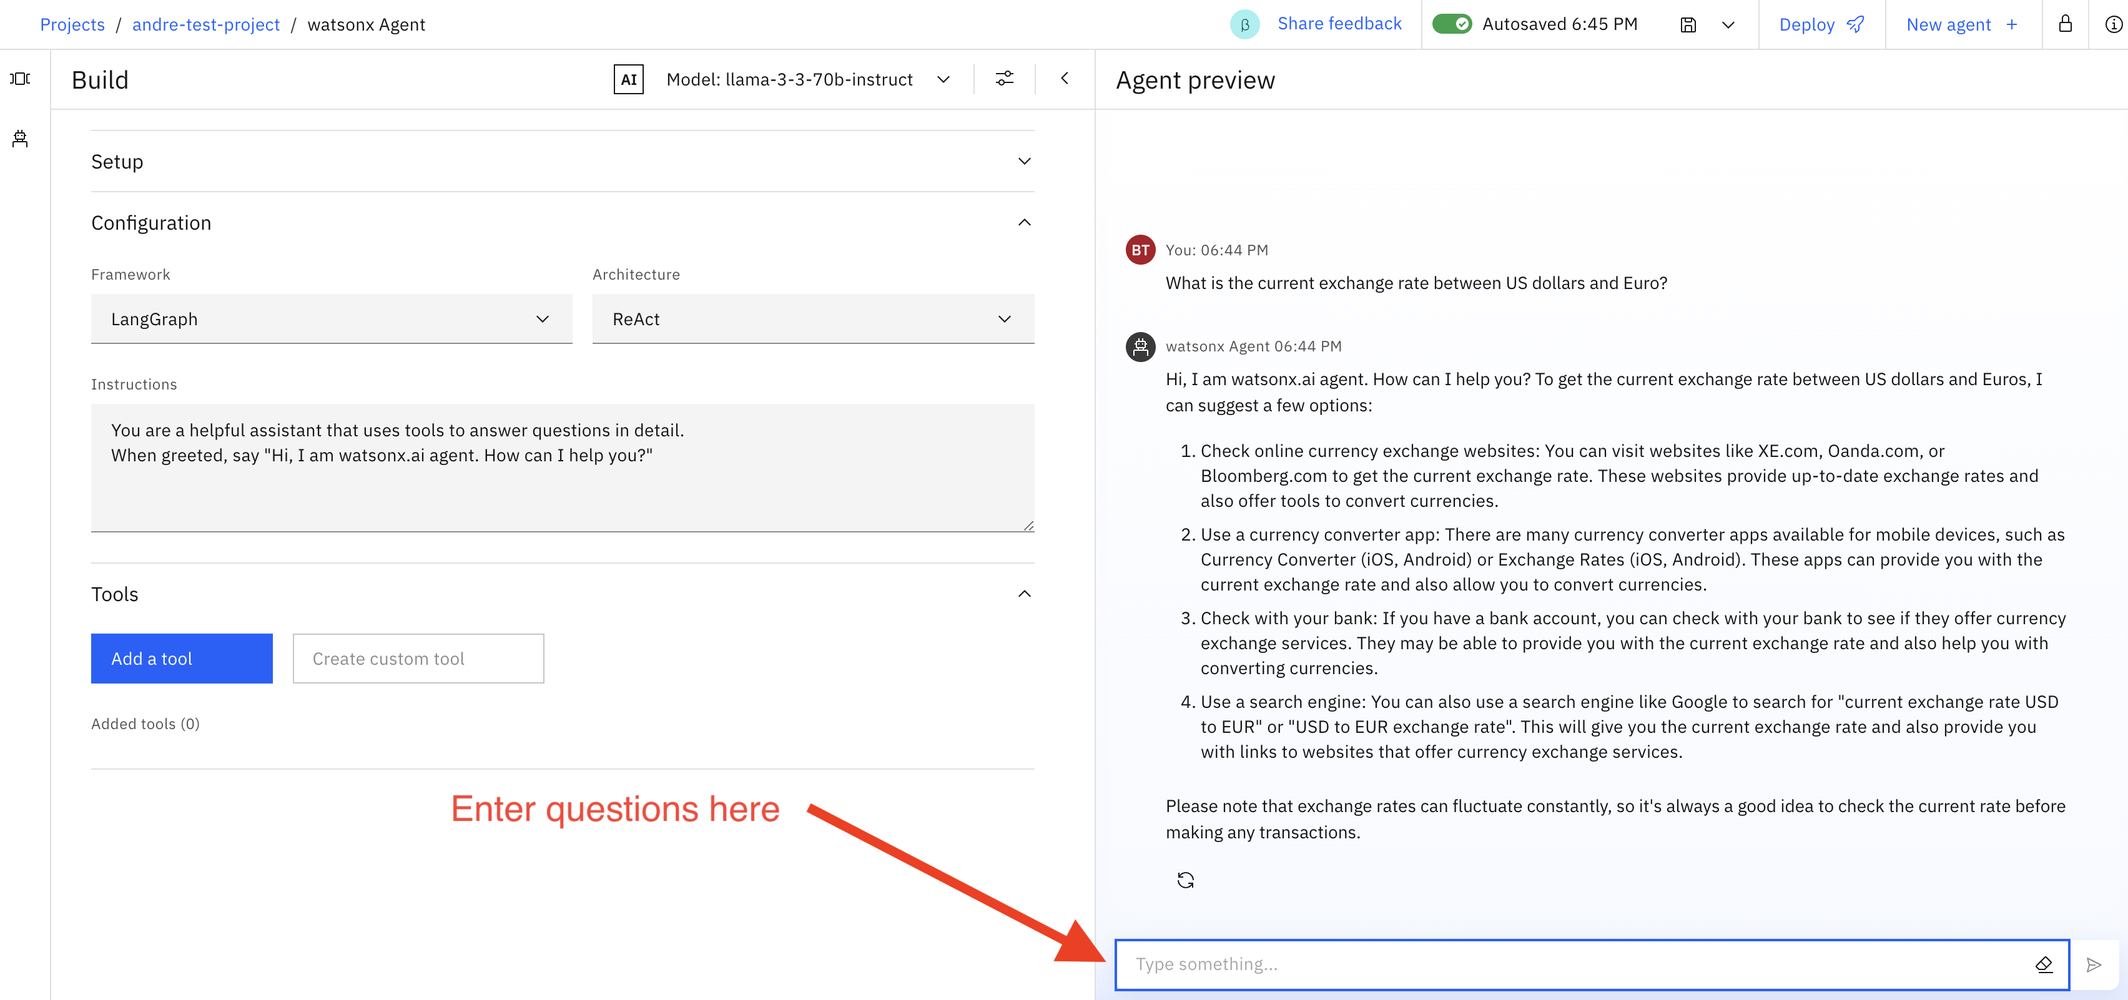
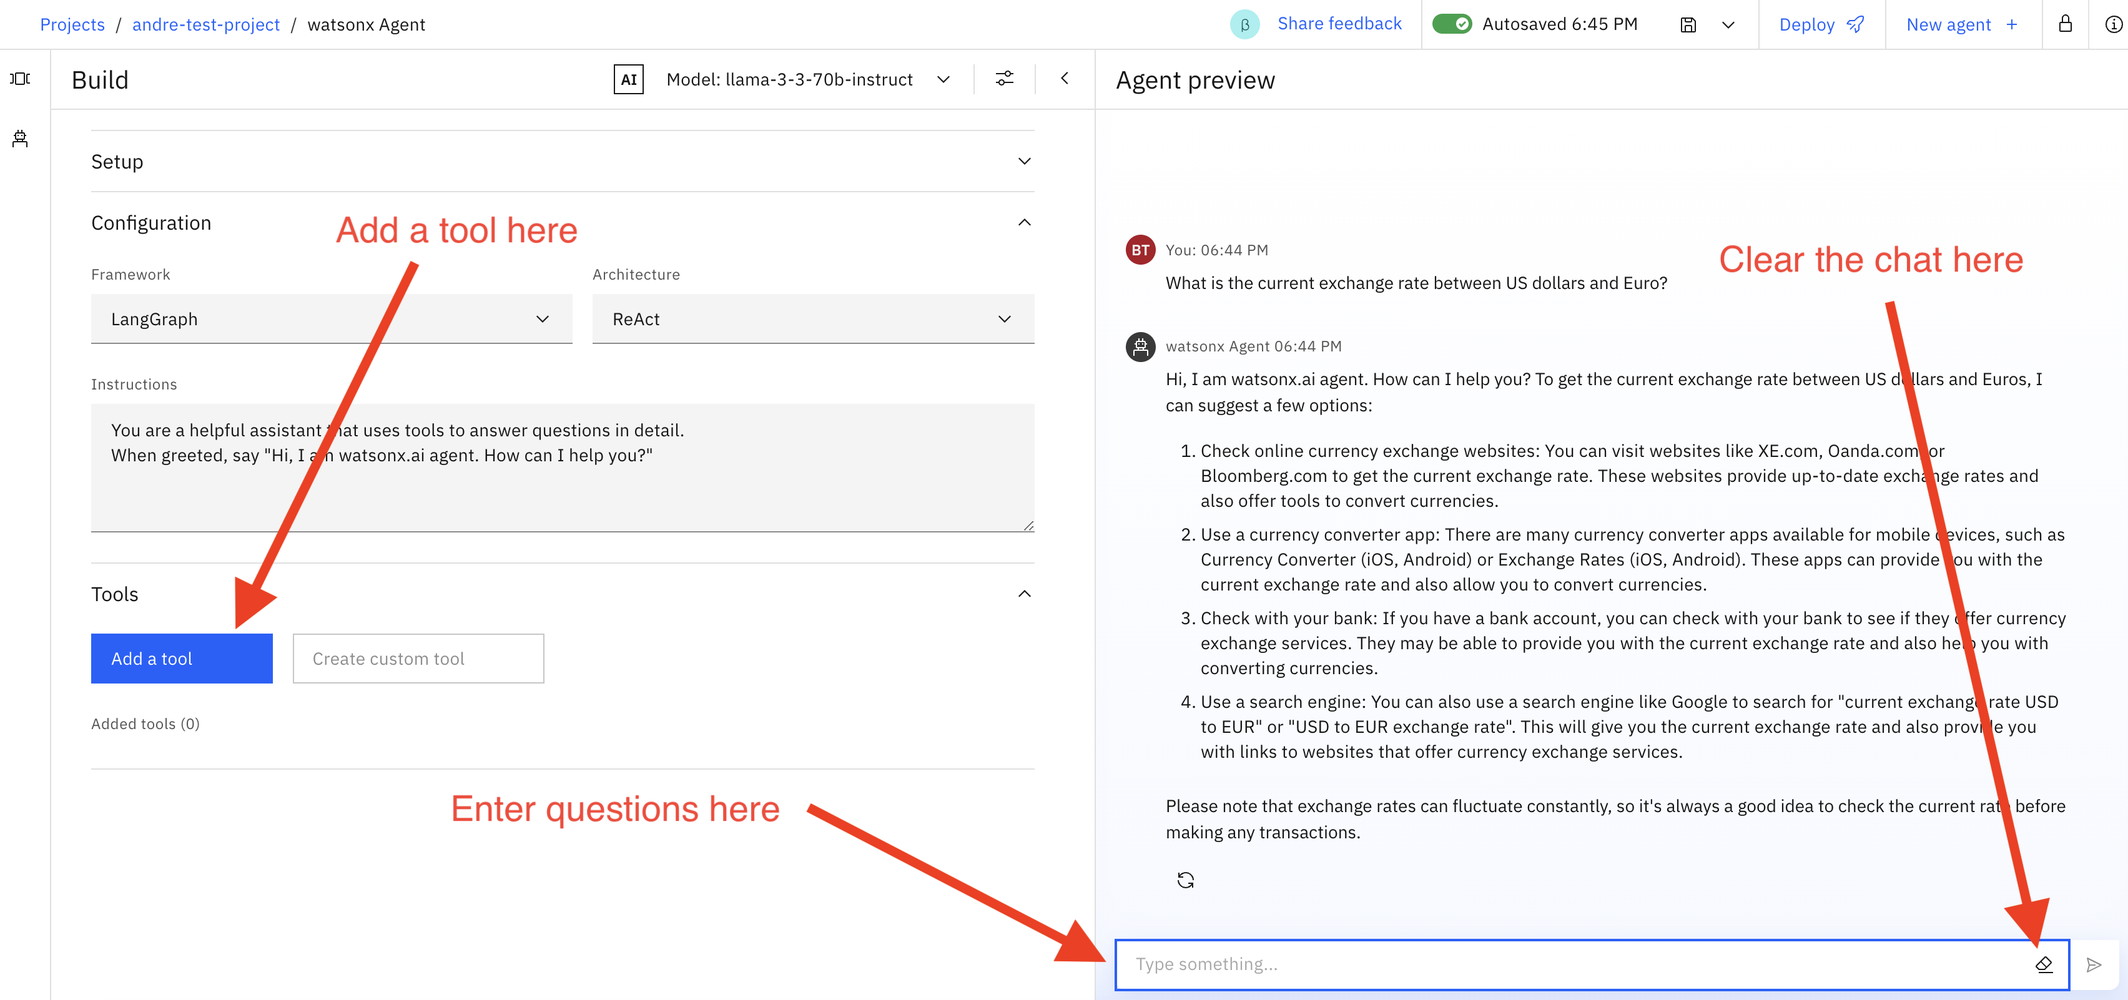
Addresses #68

diff --git a/usecases/intelligent-assistant/Intelligent AI Assistant.md b/usecases/intelligent-assistant/Intelligent AI Assistant.md
@@ -18,20 +18,20 @@
 ## Introduction
 This use case describes a scenario where a user leverages an AI assistant via chat / natural language interface, to help with the execution of tasks that require the selection of the right agent to satisfy each request.
 
-Agents can be configured in the system and will be selected if they satisfy the task at hand, based on their description.
+Agents can be configured in the system to address specific needs of the organization. Based on the descriptions given, these agents will be selected if they satisfy the task at hand.
 
-Each agent, in turn, is connected with an LLM that support function calling, so that it can leverage one or more tools, again based on each tool's description.
+Each agent, in turn, is connected with a Large Language Model (LLM) that supports function calling, so that it can leverage one or more tools, again based on each tool's description.
 
 We will show you how to build a sample of this scenario in two stages:
-1. Use the watsonx.ai Agent Lab low-code tool to define an agent that leverages a set of tools. One of the tools is a custom tool for which we will add Python code that implements its function (which is calling a REST API to a public service on the Internet). We then deploy this agent in watsonx.ai, so that it can be invoked from the AI assistant, which we build in Stage 2.
+1. Use the watsonx.ai Agent Lab low-code tool to define an agent that leverages a set of tools. One of the tools is a custom tool for which we will add Python code that implements its function (which is calling a REST API to a public service on the Internet). We then deploy this agent in watsonx.ai, so that it can be invoked from the AI assistant, which we will build in Stage 2.
 2. Use the watsonx Orchestrate Assistant Builder tool to define an assistant that gets exposed as a chat frontend. We will also define one or more agents that the assistant can use to answer the user's request.
 
-There is an argument to be made that a truly agentic solution would show a higher degree of autonomy. To address a particular problem, or ask, an agentic solution will make a plan, then start executing this plan, checking its effectiveness towards a good outcome and possibly revise the plan accordingly, all in an automated fashion and without human intervention. Applying that to the scenario described above, we simply take out the "human in the loop", by letting the system analyze the status of the dock, decide what to do with surplus product, notify stakeholders of the decision (say, return surplus to original warehouse), and update systems of record. The flow will fundamentally be the same, and it can use the same set of agents, but will add a controller of sorts on top.
+There is an argument to be made that a truly agentic solution would show a higher degree of autonomy. To address a particular problem, or ask, an agentic solution will make a plan, execute this plan, check its effectiveness towards a good outcome, and possibly revise the plan as needed, all in an automated fashion and without human intervention. Applying that to the scenario described above, we simply take out the "human in the loop", by letting the system analyze the status of the dock, decide what to do with surplus product, notify stakeholders of the decision (say, return surplus to original warehouse), and update systems of record. The flow will fundamentally be the same, and it can use the same set of agents, but will add a controller of sorts on top.
 
-In this exercise, we will take you through a rudimentary implementation of the first stage, because we believe that is realistically what enterprises will do in the near future. But it provides a path to mature to the second phase.
+In this exercise, we will take you through a rudimentary implementation of the first stage, because we believe that is realistically what enterprises will do in the near future. This  path allows for more progression (or maturity) in the second phase.
 
 <div style="border: 2px solid black; padding: 10px;">
-Even though we will take you through a complete and working example, you should also consider making changes that fit your desired use case better, and only take this description as a reference point that guides you along your own implementation.
+Even though we will take you through a complete and working example, you should also consider making changes that fit your desired use case, and only take this description as a reference point that guides you along your own implementation.
 </div>
 
 ### Pre-requisites
@@ -44,7 +44,7 @@ Even though we will take you through a complete and working example, you should 
 For the first stage of implementation of our agentic solution, we use the watsonx.ai Agent Lab tool. 
 > Note that this feature is currently in beta, so its design may change from the screenshots you see below.
 
-As a starting point, we assume you are logged into your [watsonx.ai environment](https://dataplatform.cloud.ibm.com/wx/home?context=wx), and have opened the console in your browser. The first thing we need to do is copy the `watsonx.ai URL`, which we will need later. Click on the icon next to the URL as shown below to copy it to your clipboard and save it. 
+As a starting point, we assume you are logged into your [watsonx.ai environment](https://dataplatform.cloud.ibm.com/wx/home?context=wx) and have opened the console in your browser. The first thing we need to do is copy the `watsonx.ai URL`, which we will need later. Click on the icon next to the URL as shown below to copy it to your clipboard and save it. 
 
 ![alt text](images/image50.png)
 
@@ -72,15 +72,15 @@ In watsonx, all "assets" you create are stored in a "project". An agent is one s
 
 ![alt text](images/image41.png)
 
-Now click on the blue `New project` button on the right side of the screen. In the `Create a project` view, you enter a unique name for your project, optionally give it a description and select an available storage service instance, which will hold all the data. There should only be one optin for the storage.
+Now, click on the blue `New project` button on the right side of the screen. In the `Create a project` view, enter a unique name for your project, optionally give it a description and select an available storage service instance, which will hold all the data. There should only be one optin for the storage.
 
 ![alt text](images/image42.png)
 
-Then click on `Create`. In the Projects view, go to the `Manage` tab.
+Then, click on `Create`. In the Projects view, go to the `Manage` tab.
 
 ![alt text](images/image43.png)
 
-In the Manage section, go to `Services & Integrations`, and click on `Associate service`, as shown below.
+In the Manage section, go to `Services & Integrations` and click on `Associate service`, as shown below.
 
 ![alt text](images/image44.png)
 
@@ -100,7 +100,7 @@ This opens up the Agent Lab user interface. To make sure you won't forget later,
 
 ![alt text](images/image3.png)
 
-At this point, we will not generate any notebook form it, since we are only just starting. So, save it as an Agent. Note how it will not let you pick a name for your asset, it will be listed as `watsonx Agent` in your project.
+At this point, since we are just starting, a notebook is not yet generated. Therefore, save it as an `Agent`. Note how it will not let you pick a name for your asset, it will be listed as `watsonx Agent` in your project.
 
 ![alt text](images/image4.png)
 
@@ -120,11 +120,18 @@ The picture below shows what the configuration for your new agent might look lik
 ![alt text](images/image39.png)
 
 Let's explore the environment a bit further. To start, remove the Google search tool from the agent, by clicking on the trash bin icon.
+
+![alt text](images/image63.png)
+
 In the Agent preview window, type in a question about something the model has most likely not been trained with. For example, enter "What is the current exchange rate between US dollars and Euro?" The response will look similar to what is shown in the screenshot below.
 
 ![alt text](images/image5.png)
 
-Now let's add the Google search tool back. Click on `Add a tool`, clear the chat, and add the tool back to your agent. Now ask the same question as before in the preview window. This time, the agent will realize the model has not been trained with this information, so it will call the tool to retrieve it. If you expand the "How did I get this answer?" section, you can find details about the steps the agent took.
+Now let's add the Google search tool back. Clear the chat, click on `Add a tool`, and add the tool back to your agent. 
+
+![alt text](images/image64.png)
+
+Now ask the same question as before in the preview window. This time, the agent will realize the model has not been trained with this information, so it will call the tool to retrieve it. If you expand the "How did I get this answer?" section, you can find details about the steps the agent took.
 
 ![alt text](images/image6.png)
 
@@ -207,7 +214,7 @@ After you hit Save, we are ready to test our agent with the new custom tool. In 
 
 ### Deploy your agent
 
-Now that we have tested our agent and it performs to our satisfaction, we can deploy it, which makes it available for external consumption. The system will generate the required LangGraph code and deploy it into a `Deployment Space`. If none exists in your environment, you need to go and create one. You can find the link to Deployments in the 'hamburger menu' on the top left of the watsonx console. In the Deployments view, it will show you any deployment spaces you might have. If there is none, go ahead and create one, by clicking on the `New deployment space` button.
+Now that we have tested our agent and it performs to our satisfaction, we can deploy it, which makes it available for external consumption. The system will generate the required LangGraph code and deploy it into a `Deployment Space`. You can find the link to Deployments in the 'hamburger menu' on the top left of the watsonx console. In the Deployments view, it will show you any deployment spaces you might have. If there is none, go ahead and create one, by clicking on the `New deployment space` button.
 
 ![alt text](images/image9.png)
 
@@ -226,7 +233,7 @@ Make sure you have selected the deployment space you created earlier. Click Depl
 
 ![alt text](images/image10.png)
 
- Back on the Deployments page, you can now the new deployment being run.
+ Back on the Deployments page, you can now see the new deployment being run.
 
 ![alt text](images/image11.png)
 
@@ -258,7 +265,7 @@ Switch from the `Assets` to the `Manage` tab, and click on the icon next to the 
 
 ## CodeEngine
 
-> **Important note:** Currently, the deployed agent cannot directly be configured as an external agent in watsonx Orchestrate. Instead, we need to deploy an endpoint that satifies requests from watsonx Orchestrate and converts them into the interface required by the agent. We will use the CodeEngine service for this. 
+> **Important note:** Currently, the deployed agent cannot directly be configured as an external agent in watsonx Orchestrate. Instead, we need to deploy an endpoint that satisfies requests from watsonx Orchestrate and converts them into the interface required by the agent. We will use the CodeEngine service for this. 
 > Note that this extra step is expected to be removed in an upcoming new release of watsonx Orchestrate.
 
 For the CodeEngine connector to work with your deployed agent, you need to generate a bearer token. Your instructor will give you a URL to load into your browser for that purpose. Once loaded, it looks like shown below.
@@ -303,6 +310,8 @@ Click on `Add agent` at the top right of the page. Enter information about your 
 - Bearer token: (Copy the token that you generated earlier, right after you deployed your agent.)
 - Service instance URL: (Your instructor will give you the endpoint URL you enter. It should end in `/chat/completions`.) 
 
+After you have entered all the information, you click on `Connect`.
+
 ![alt text](images/image17.png)
 
 Click on `Connect`. This will make your agent available to the chat function.
@@ -313,7 +322,7 @@ Now let's test it out! Select `Chat` from the hamburger menu at the top left cor
 
 ### Assistant Builder
 
-Now let's add a couple of assistants to the system, to handle other inquries and requests that may come from the Warehouse Manager user. In the watsonx Orchestrate console, select `AI assistant builder` from the "hamburger menu". Then select the `View all assistants link to open up the list of all assistants you have defined in your system.
+Now let's add a couple of assistants to the system to handle other inquries and requests that may come from the Warehouse Manager user. In the watsonx Orchestrate console, select `AI assistant builder` from the "hamburger menu". Then select the `View all assistants` link to open up the list of all assistants you have defined in your system.
 
 ![alt text](images/image19.png)
 
@@ -325,7 +334,7 @@ Go ahead and give your assistant a name, for example, "Dock Manager". It is alwa
 
 ![alt text](images/image20.png)
 
-Click on `Create assistant`. Once the new assistand has been created, you will see a view with lots of information that you should spend some time exploring, if you are not already familiar with it. Most importantly, it gives you an overview of the architecture of your assistant, and you will note that a lot of default behavior has already been filled in. 
+Click on `Create assistant`. Once the new assistant has been created, you will see a view with lots of information that you should spend some time exploring, if you are not already familiar with it. Most importantly, it gives you an overview of the architecture of your assistant, and you will note that a lot of default behavior has already been filled in. 
 
 ![alt text](images/image21.png)
 
@@ -352,7 +361,7 @@ First, we need to enter a question that the user might ask, and which will trigg
 
 ![alt text](images/image60.png)
 
-Note how the system picks a default model that is used to answer the request. We will accept the deault setting here, which is an IBM Granite model.
+Note how the system picks a default model that is used to answer the request. We will accept the default setting here, which is an IBM Granite model.
 
 ![alt text](images/image61.png)
 
@@ -430,7 +439,7 @@ Current Docks Operations
 Finally we are ready to enter the actual prompt that is used in the action. For our example, you can use the following prompt:
 ```
 Provide a concise summary of the current warehouse dock operations in a textual format. 
-You need to include the the truck payload descriptions as a concise bullet-point list.
+You need to include the truck payload descriptions as a concise bullet-point list.
 ```
 
 ![alt text](images/image26.png)
@@ -592,7 +601,7 @@ First we'll add the Dock Manager assistant. Make sure you give it a good descrip
 
 ![alt text](images/image35.png)
 
-Next add the Warehouse Secretaty assistant. Don't forget to give it meaningful description.
+Next add the Warehouse Secretary assistant. Don't forget to give it meaningful description.
 You should now see two assistants that have been added.
 
 ![alt text](images/image36.png)

diff --git a/usecases/intelligent-assistant/README.md b/usecases/intelligent-assistant/README.md
@@ -2,13 +2,13 @@
 
 ![alt text](images/ComfyUI_00127_.png)
 
-This use case is about an AI agent assisting an operational manager, a manager of a warehouse to be exact. One of the responsibilities of the manager is to monitor product arrivals and depatures at the dock, make sure inventory is up to date and handling with surplus product in a cost effective manner. We apply an agentic solution based on watsonx Orchestrate and watsonx.ai to optimize this process.
+This use case is about an AI agent assisting an operational manager - a manager of a warehouse to be exact. One of the responsibilities of the manager is to monitor product arrivals and departures at the dock, make sure inventory is up to date, and that handling of surplus product happens in a cost-effective manner. We apply an agentic solution based on watsonx Orchestrate and watsonx.ai to optimize this process.
 
 ## The Problem
 SmartStorage, a warehouse management company, faces significant challenges in its daily operations due to manual processes and limited visibility across its supply chain. These inefficiencies lead to delayed shipments, which in turn result in decreased customer satisfaction. The lack of real-time tracking and automation means that warehouse managers spend a considerable amount of time manually coordinating the movement of products, checking the status of warehouse docks, and managing inventory. This not only slows down the entire logistics process but also increases the likelihood of human error, further exacerbating delays and dissatisfaction. By addressing these issues, SmartStorage aims to improve its operational efficiency and enhance its service quality.
 
 ## Objective
-The primary objective is to design and implement an Agentic AI-enabled system for warehouse management that leverages artificial intelligence to optimize the flow of products. This system is envisioned to retrieve the status of warehouse docks in real-time and find the optimal route for surplus products, thereby streamlining the logistics process. A key feature of the system is its natural language interface, which will allow warehouse managers to interact with the system intuitively, using voice or text commands to query the status of shipments, manage inventory, and adjust routes as needed. Furthermore, the system will be integrated with relevant in-house systems, ensuring seamless data exchange and maximizing the benefits of automation. By achieving this objective, SmartStorage can significantly enhance its operational efficiency, reduce costs, and improve customer satisfaction.
+The primary objective is to design and implement an Agentic AI-enabled system for warehouse management that leverages artificial intelligence to optimize the flow of products. This system is envisioned to retrieve the status of warehouse docks in real-time and find the optimal route for surplus products, thereby streamlining the logistics process. A key feature of the system is its natural language interface, which will allow warehouse managers to interact with the system intuitively, using voice or text commands to query the status of shipments, manage inventory, and adjust routes as needed. Furthermore, the system will be integrated with relevant in-house systems, ensuring seamless data exchange, and maximizing the benefits of automation. By achieving this objective, SmartStorage can significantly enhance its operational efficiency, reduce costs, and improve customer satisfaction.
 
 ## Business Value
 The implementation of an Agentic AI-enabled system for warehouse management is expected to deliver substantial business value to SmartStorage. Firstly, it will automate many manual tasks, thereby accelerating business processes and reducing the time spent on coordinating logistics. This automation will also minimize the risk of human error, leading to more reliable and efficient operations. Secondly, the system's natural language interface will enable intuitive interactions, making it easier for warehouse managers to use the system and access critical information in real-time. Lastly, the system's design will allow for flexible control over AI autonomy and human intervention, ensuring that warehouse managers can intervene when necessary while still benefiting from the efficiency gains provided by AI. Overall, the Agentic AI solution is poised to transform SmartStorage's warehouse management operations, driving improvements in efficiency, customer satisfaction, and ultimately, business profitability.

diff --git a/README.md b/README.md
@@ -4,14 +4,14 @@
 
 In this bootcamp, you will build and deploy an Agentic AI application prototype for an enterprise use case.
 
-🚀 You'll learn the concepts behind Agentic AI workflows
+🚀 You'll learn the concepts behind Agentic AI workflows.
 
-🚀 You'll leverage IBM watsonx and open source tools for low-code fast prototyping of Agentic AI workflows
+🚀 You'll leverage IBM watsonx and open source tools for low-code fast prototyping of Agentic AI workflows.
 
-🚀 You'll learn how to deploy an Agentic AI Application and the trust considerations needed to go to production.
+🚀 You'll learn how to deploy an Agentic AI application and the trust considerations needed to go to production.
 
 ## Pick a use case
-Select an enterprise use case, learn about the business story, and implement it using the hands-on step-by-step buides:
-- [Intelligent assistant](https://github.ibm.com/skol/agentic-ai-client-bootcamp/tree/main/usecases/intelligent-assistant)
-- [HR automation](https://github.ibm.com/skol/agentic-ai-client-bootcamp/tree/main/usecases/ask-hr)
-- [Business automation](https://github.ibm.com/skol/agentic-ai-client-bootcamp/tree/main/usecases/business-automation)
+Select an enterprise use case, learn about the business story, and implement it using the hands-on step-by-step guides:
+- [Intelligent assistant](./usecases/intelligent-assistant)
+- [HR automation](./usecases/ask-hr)
+- [Business automation](./usecases/business-automation)
